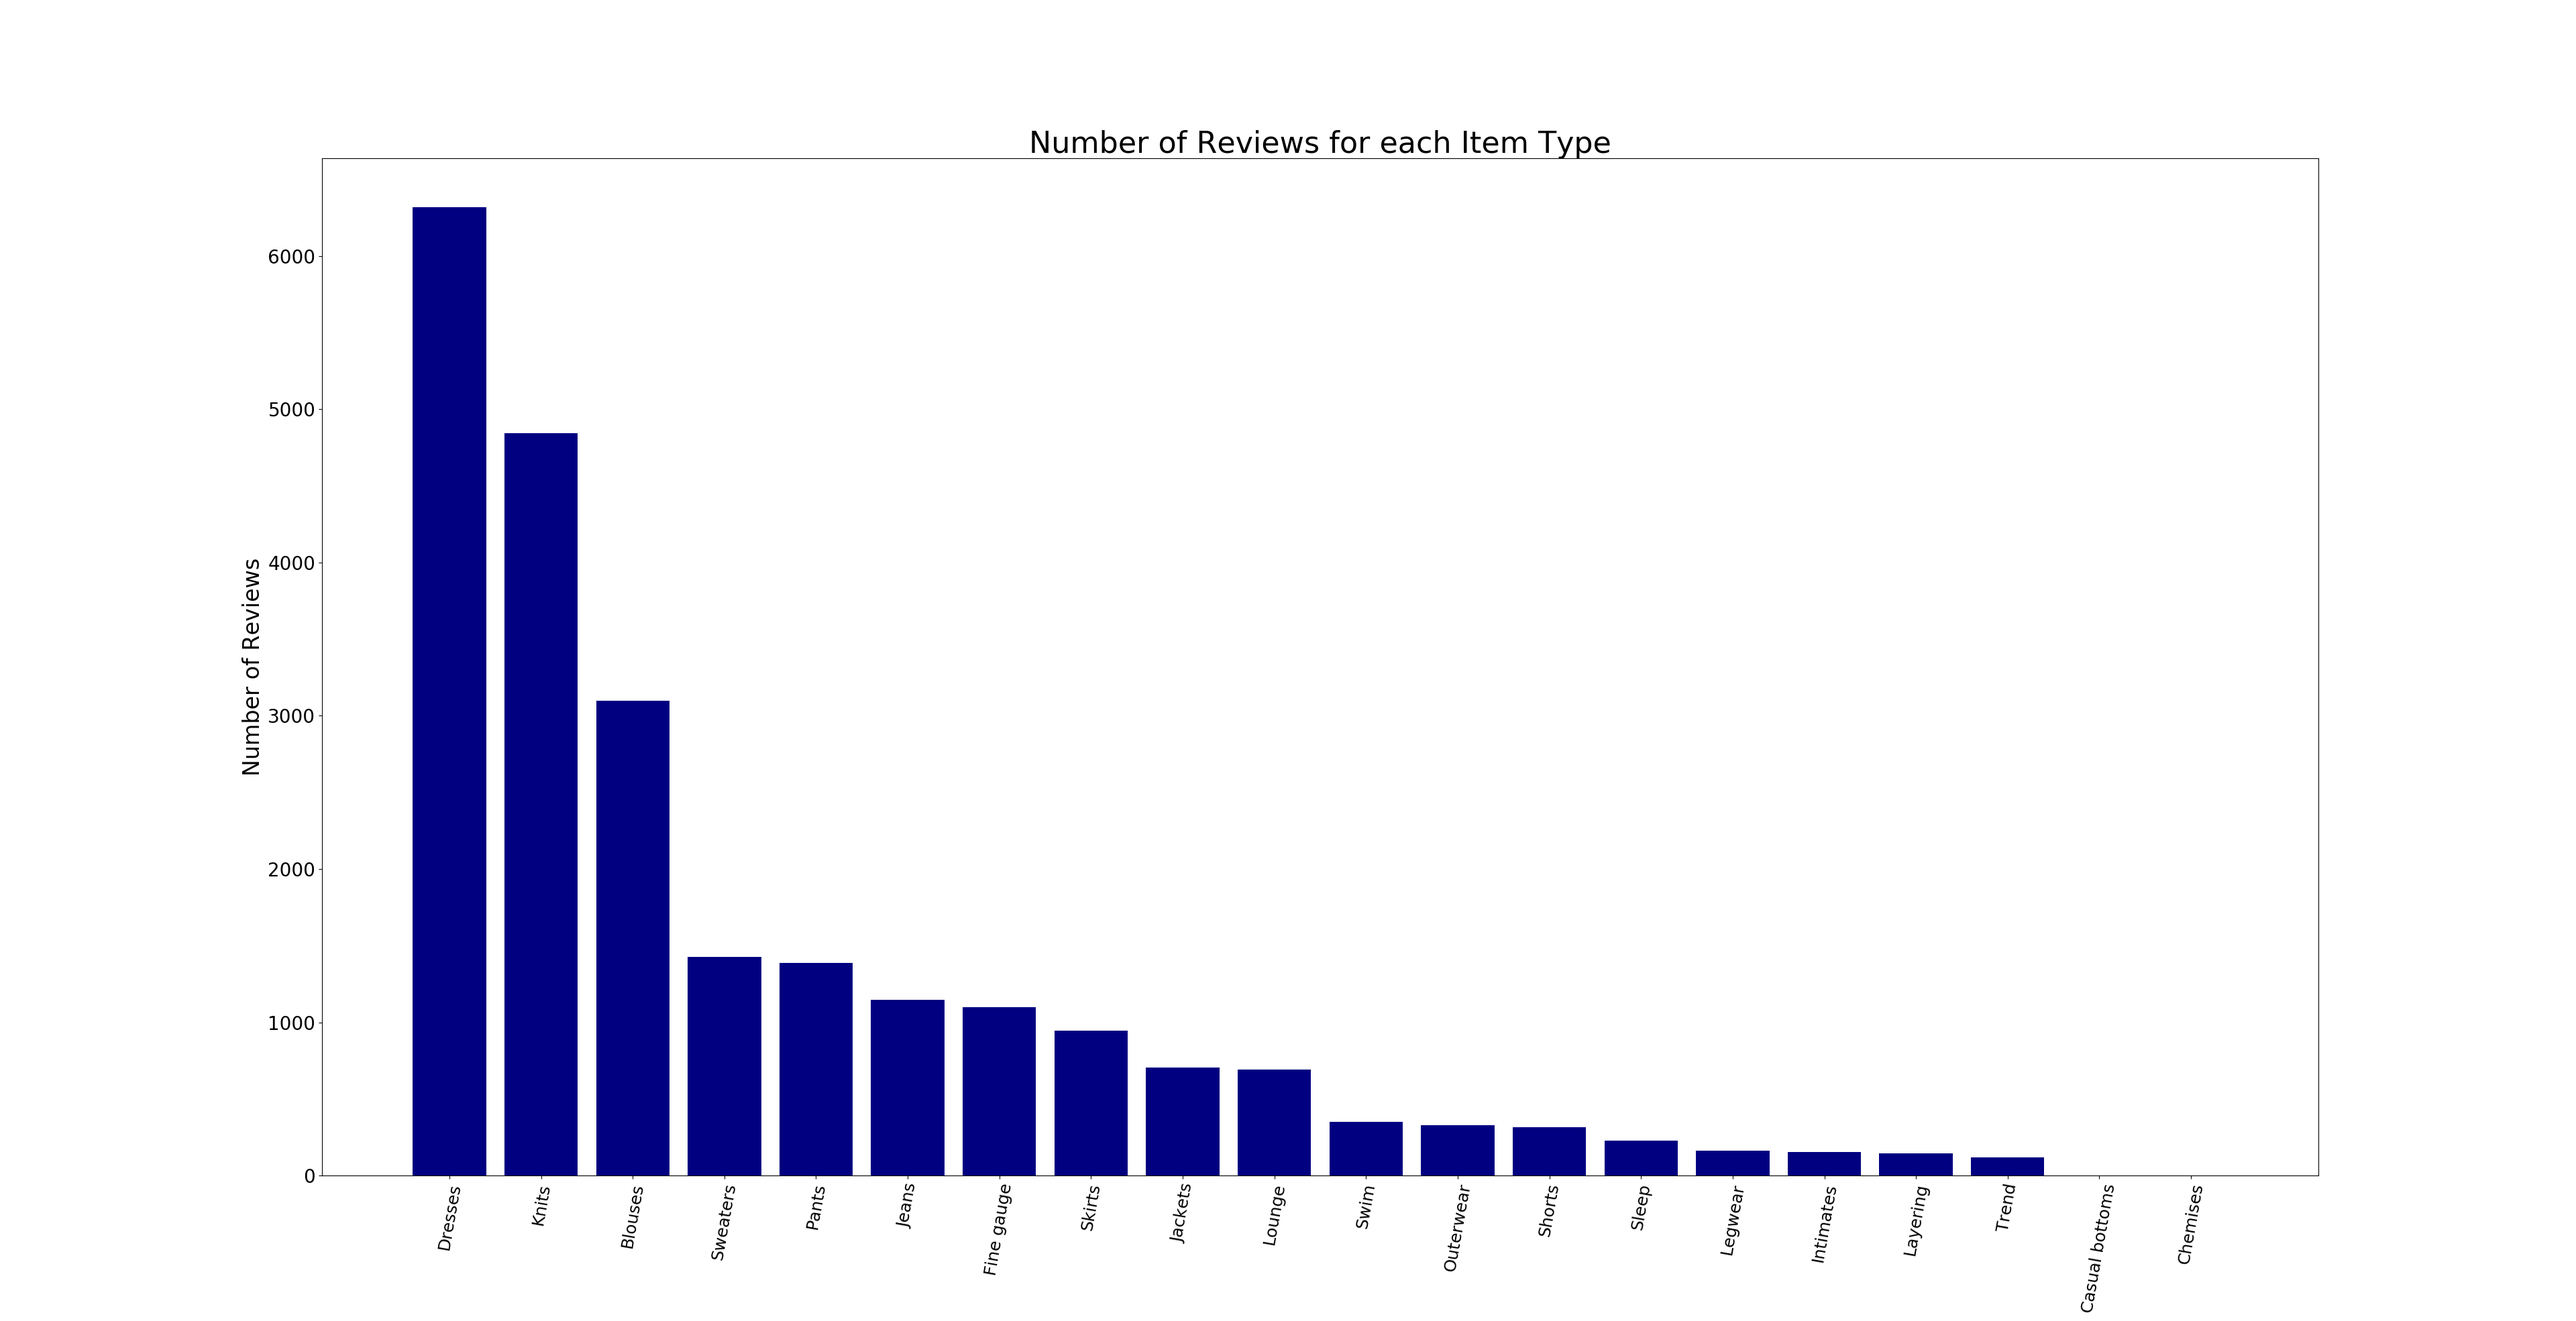
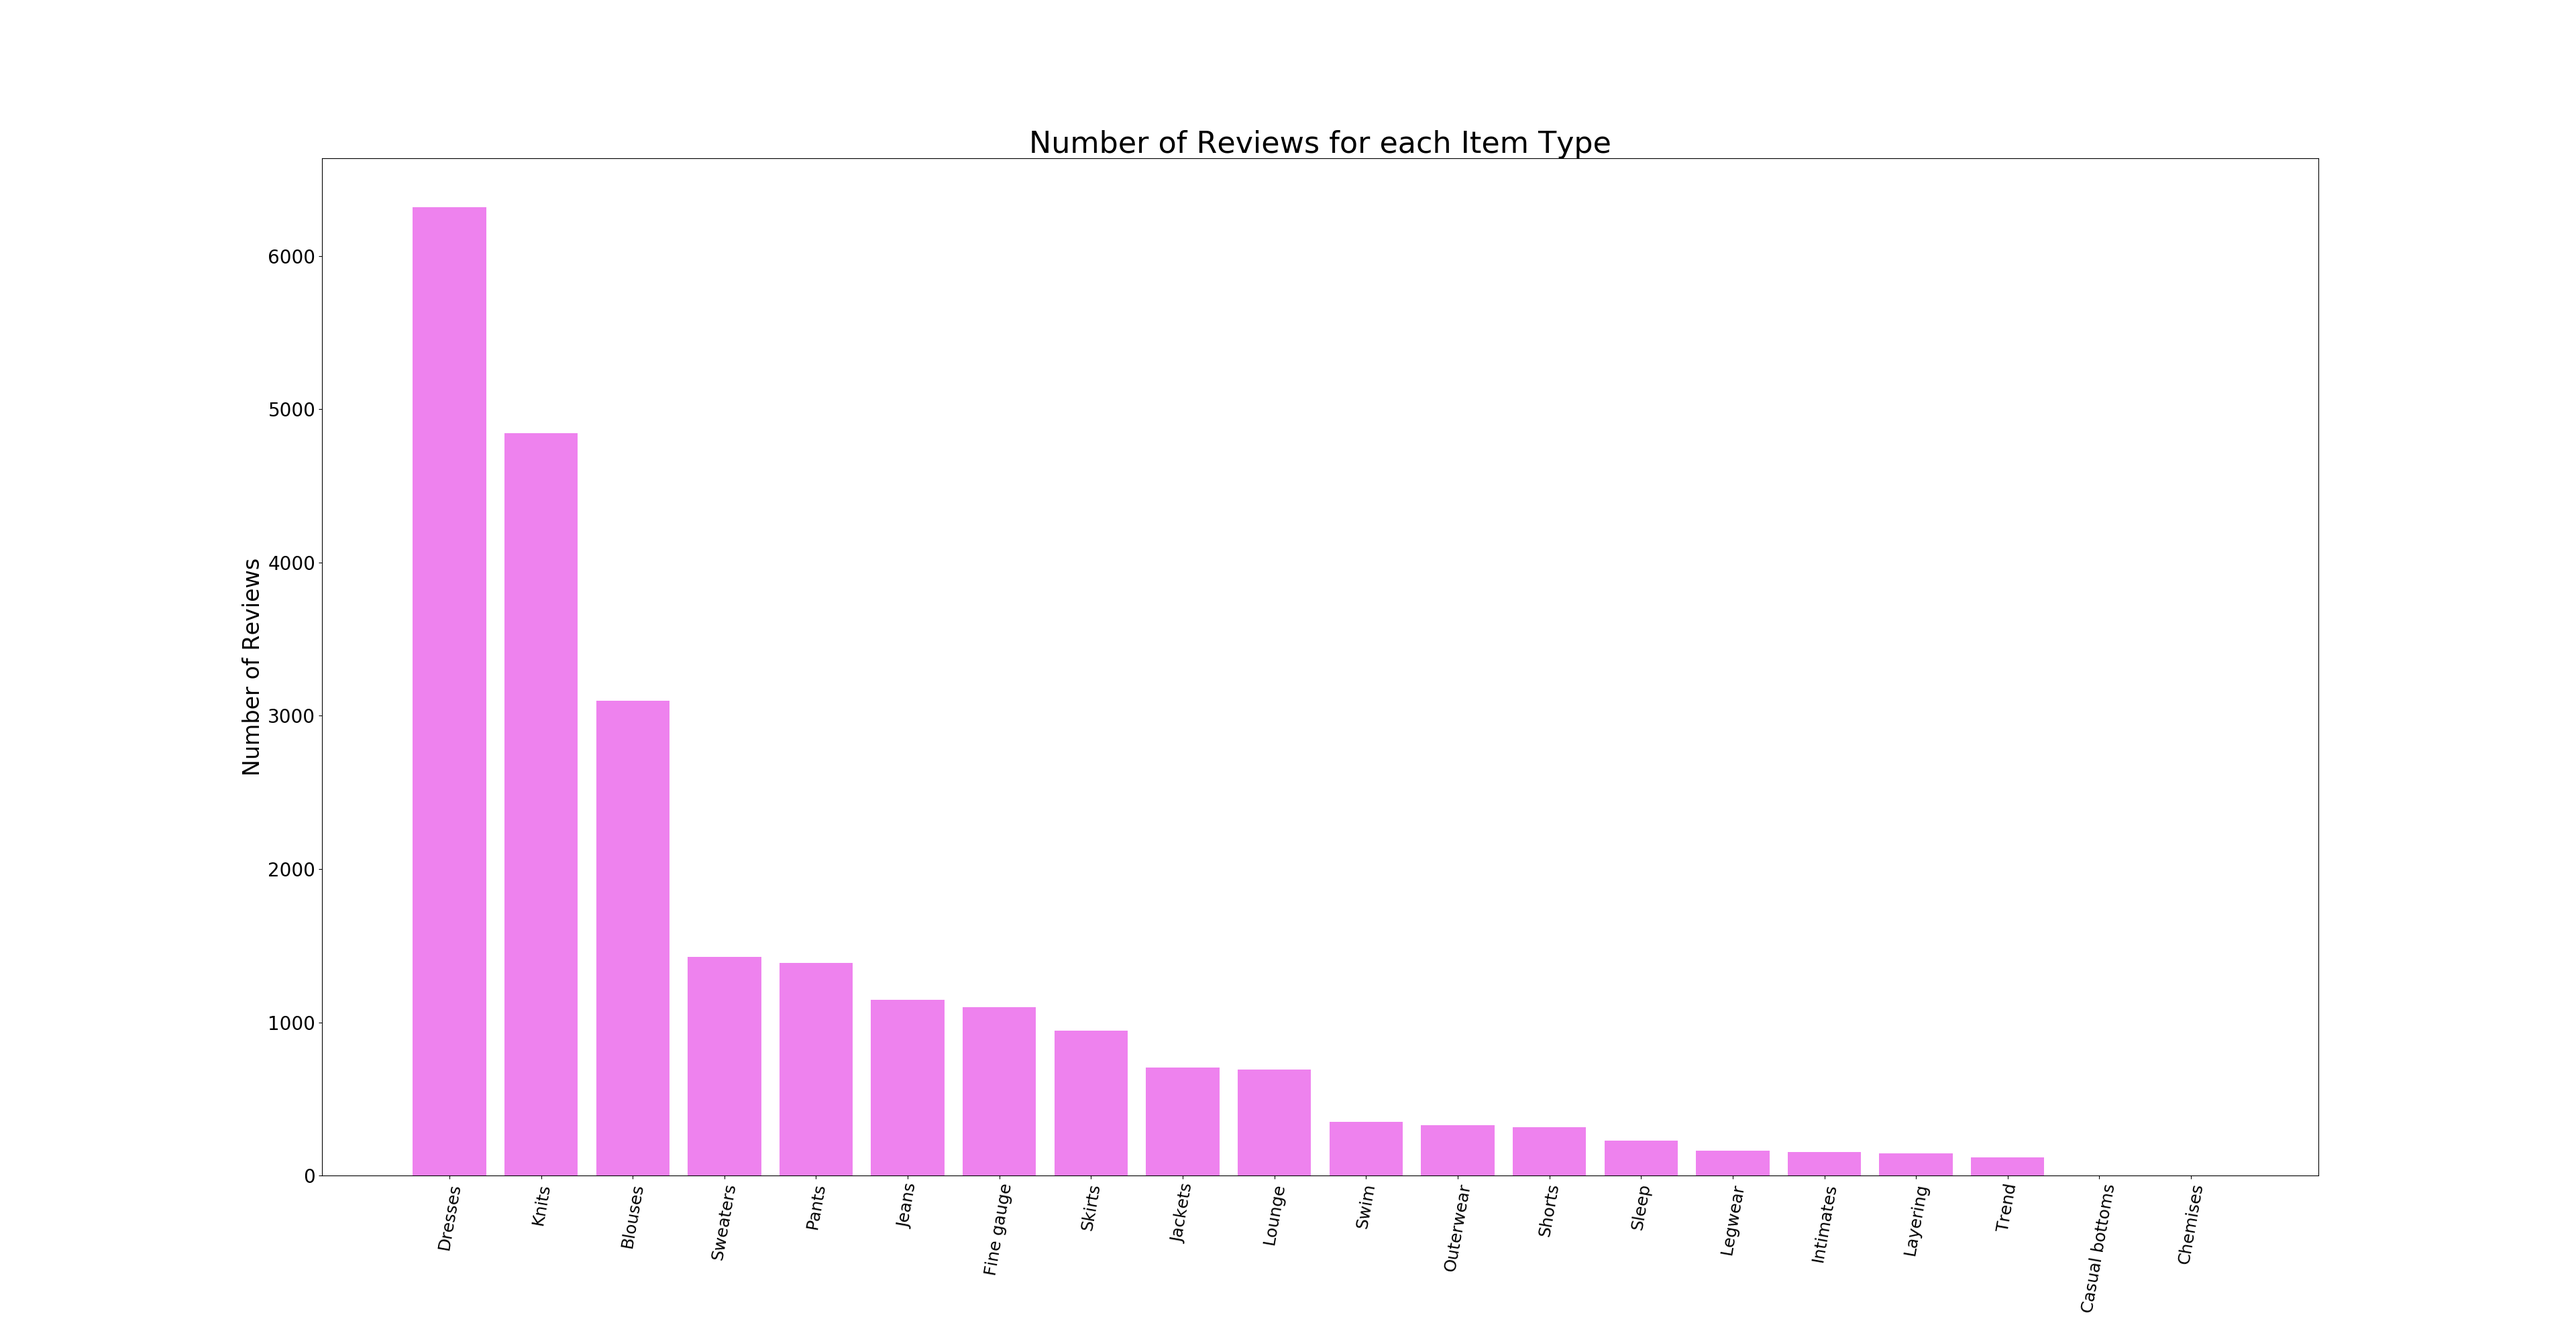
Mental Health in Tech
Basic graphs, tables, wordcloud.

Changed region(s): [[0.1562, 0.1548, 0.8125, 0.898]]

diff --git a/mental_health_tech/mental_health.py b/mental_health_tech/mental_health.py
@@ -34,6 +34,113 @@ Columns:
 """
 
 
+def age_gender_histogram():
+    """
+    Create a histogram for age and gender.
+    """
+    ages_m = []
+    ages_f = []
+    for index, row in df.iterrows():
+        gender = row["Gender"]
+        if gender == "m":
+            ages_m.append(row["Age"])
+        if gender == "f":
+            ages_f.append(row["Age"])
+
+    # plot histograms
+    plt.close()
+    fig, ax = plt.subplots()
+    plt.hist(ages_m, bins=32, color="orange", alpha=0.5, label="Male")
+    plt.hist(ages_f, bins=32, color="violet", alpha=0.5, label="Female")
+    plt.xlabel("Age", fontsize=32)
+    plt.ylabel("Frequency", fontsize=32)
+    plt.title("Histogram of Ages", fontsize=48)
+    ax.tick_params(axis="x", which="major", labelsize=20)
+    ax.tick_params(axis="y", which="major", labelsize=20)
+    plt.grid(True)
+    plt.legend(prop={'size': 32})
+    plt.show()
+
+
+def categorical_data_tables():
+    """
+    Generate categorical data tables.
+    """
+    from tabulate import tabulate
+
+    # Family History
+    family_histories = pd.DataFrame(df.groupby(["family_history"]).size())
+    family_histories.columns = ["count"]
+    print(tabulate(family_histories, headers="keys", tablefmt="orgtbl"))
+
+    # Treatment
+    treatment = pd.DataFrame(df.groupby(["treatment"]).size())
+    treatment.columns = ["count"]
+    print(tabulate(treatment, headers="keys", tablefmt="orgtbl"))
+
+    # Work Interference
+    interference = pd.DataFrame(df.groupby(["work_interfere"]).size())
+    interference.columns = ["count"]
+    print(tabulate(interference, headers="keys", tablefmt="orgtbl"))
+
+    # Working Remotely
+    remotely = pd.DataFrame(df.groupby(["remote_work"]).size())
+    remotely.columns = ["count"]
+    print(tabulate(remotely, headers="keys", tablefmt="orgtbl"))
+
+    # Mental Health Benefits
+    benefits = pd.DataFrame(df.groupby(["benefits"]).size())
+    benefits.columns = ["count"]
+    print(tabulate(benefits, headers="keys", tablefmt="orgtbl"))
+
+    # Care Options
+    care_options = pd.DataFrame(df.groupby(["care_options"]).size())
+    care_options.columns = ["count"]
+    print(tabulate(care_options, headers="keys", tablefmt="orgtbl"))
+
+    # Seeking Help
+    seek_help = pd.DataFrame(df.groupby(["seek_help"]).size())
+    seek_help.columns = ["count"]
+    print(tabulate(seek_help, headers="keys", tablefmt="orgtbl"))
+
+    # Mental Health Consequence
+    mental_consequence = pd.DataFrame(df.groupby(["mental_health_consequence"]).size())
+    mental_consequence.columns = ["count"]
+    print(tabulate(mental_consequence, headers="keys", tablefmt="orgtbl"))
+
+    # Physical Health Consequence
+    physical_consequence = pd.DataFrame(df.groupby(["phys_health_consequence"]).size())
+    physical_consequence.columns = ["count"]
+    print(tabulate(physical_consequence, headers="keys", tablefmt="orgtbl"))
+
+
+def wordcloud_comments():
+    def preprocess_comment(s):
+        """
+        Preprocess a comment.
+        :return: str, preprocessed comment
+        """
+        return s.lower().strip()
+
+    def construct_stopwords():
+        """
+        Add some words to the stopwords list.
+        """
+        sw = STOPWORDS
+        added = ["employer", "employee", "employed", "company", "mental", "health", "issues", "work", "people",
+                 "know", "questions"]
+        for e in added: sw.add(e)
+        return sw
+
+    from wordcloud import WordCloud, STOPWORDS
+    comments = np.array([preprocess_comment(comment) for comment in df["comments"].values if type(comment) == str])
+    text = " ".join(comments)
+    wordcloud = WordCloud(background_color="white", width=700, height=500, collocations=False, max_words=150, stopwords=construct_stopwords())
+    wordcloud.generate(text)
+    plt.axis("off")
+    plt.imshow(wordcloud)
+
+
 if __name__ == "__main__":
     # -- Import libraries
     import numpy as np
@@ -43,6 +150,40 @@ if __name__ == "__main__":
     # -- Import dataset
     df = pd.read_csv("mental_health_in_tech_survey.csv")
 
-    pass
+    # -- Cleaning
+    # clean age data
+    median_age = np.median(df["Age"].values)
+    for i in range(len(df["Age"].values)):
+        if df["Age"].values[i] < 0 or df["Age"].values[i] > 100:
+            df["Age"].values[i] = median_age
 
+    # clean gender data
+    def decipher_gender(s):
+        """
+        Given a string, return either "m" or "f" or "o" (other)
+        This handles most of the possible strings a user could enter.
+        Some of these I infer myself (eg. malr is a typo of male).
 
+        :param s: some string, likely in the form of "m", "M", "f", "F", "male", "female", or some variant
+        :return: string
+        """
+        s = s.lower().strip()
+        if s in ["m", "male", "man", "cis male", "male (cis)", "make", "cis man", "malr", "msle"]:
+            return "m"
+        elif s in ["f", "female", "woman", "female (cis)", "femake"]:
+            return "f"
+        else:
+            # print(s)
+            return "o"
+
+    f = np.vectorize(decipher_gender)
+    df["Gender"] = f(df["Gender"])
+
+    # -- First, let's get a feel for our data. Plot a histogram of age / gender.
+    age_gender_histogram()
+
+    # -- Look at categorical data columns
+    categorical_data_tables()
+
+    # -- Wordclouds for comments
+    wordcloud_comments()

diff --git a/women_ecommerce/ecommerce.py b/women_ecommerce/ecommerce.py
@@ -21,20 +21,18 @@ def bar_graph_class_names():
     Simple plot of number of reviews per class name
     """
     # get classes and counts
-    classes = [c for c in df.iloc[:, -1].values]
-    unique, counts = np.unique(classes, return_counts=True)
-    class_counts = dict(zip(unique, counts))
-    del class_counts["nan"]
+    class_counts = df.groupby(["Class Name"]).size().to_dict()
     class_counts = collections.OrderedDict(sorted(class_counts.items(), key=lambda x: x[1], reverse=True))
 
     # create bar graph
     num_classes = len(class_counts)
     fig, ax = plt.subplots()
-    plt.bar(np.arange(num_classes), class_counts.values(), color="Navy")
+    plt.bar(np.arange(num_classes), class_counts.values(), color="violet")
     plt.xticks(np.arange(num_classes), class_counts.keys(), fontsize=18, rotation=80)
     ax.tick_params(axis="y", which="major", labelsize=20)
     plt.title("Number of Reviews for each Item Type", fontsize=32)
     plt.ylabel("Number of Reviews", fontsize=24)
+    plt.show()
 
 
 def bag_of_words():
@@ -120,4 +118,4 @@ if __name__ == "__main__":
     bar_graph_class_names()
 
     # -- Bag of words model and classification for review texts
-    bag_of_words()
+    # bag_of_words()

diff --git a/README.md b/README.md
@@ -56,3 +56,139 @@ Oof. that's not any better. Perhaps review text is not a good predictor for whet
 ## Mental Health in Tech
 Dataset: https://www.kaggle.com/osmi/mental-health-in-tech-survey
 
+First, let's get a feel for what the data looks like. Plot of age and genders:
+
+<img src="mental_health_tech/age_gender.png" width="600" height="400">
+
+There were a couple of entries for gender that I classified as "other", and the list of these in the dataset were:
+```
+male-ish
+maile
+trans-female
+cis female
+something kinda male?
+mal
+queer/she/they
+non-binary
+nah
+all
+enby
+fluid
+genderqueer
+androgyne
+agender
+cis-female/femme
+guy (-ish) ^_^
+male leaning androgynous
+trans woman
+neuter
+female (trans)
+queer
+mail
+a little about you
+female (trans)
+p
+femail
+ostensibly male, unsure what that really means
+```
+My logic for this was to correct typos (such as "malr"), and then for everything else, I classify as other.
+For instance, "queer" is not a gender, so I would just go ahead and classify this as "other".
+
+Now, let's look at some of the categorical data from the dataset:
+
+Family History: "Yes" indicates that there is a family history of mental illness.
+```
+| family_history   |   count |
+|------------------+---------|
+| No               |     767 |
+| Yes              |     492 |
+```
+
+Treatment: "Yes" indicates having sought out treatment for a mental health condition.
+```
+| treatment   |   count |
+|-------------+---------|
+| No          |     622 |
+| Yes         |     637 |
+```
+
+Work Interference: For those who have a mental health condition, how do people feel like their work gets affected?
+```
+| work_interfere   |   count |
+|------------------+---------|
+| Never            |     213 |
+| Often            |     144 |
+| Rarely           |     173 |
+| Sometimes        |     465 |
+```
+
+Remote Work: "Yes" indicates work from home more than 50% of the time.
+```
+| remote_work   |   count |
+|---------------+---------|
+| No            |     883 |
+| Yes           |     376 |
+```
+
+Benefits: Does the employer provide mental health benefits?
+```
+| benefits   |   count |
+|------------+---------|
+| Don't know |     408 |
+| No         |     374 |
+| Yes        |     477 |
+```
+
+Care Options: Do individuals know how to seek out care options from the employer?
+```
+| care_options   |   count |
+|----------------+---------|
+| No             |     501 |
+| Not sure       |     314 |
+| Yes            |     444 |
+```
+
+Seeking Help: Does the employer provide resources for mental health issues?
+```
+| seek_help   |   count |
+|-------------+---------|
+| Don't know  |     363 |
+| No          |     646 |
+| Yes         |     250 |
+```
+
+Consequences for bringing up mental health: Do you think bringing up mental health issues would have a negative impact on your employment?
+```
+| mental_health_consequence   |   count |
+|-----------------------------+---------|
+| Maybe                       |     477 |
+| No                          |     490 |
+| Yes                         |     292 |
+```
+
+Consequences for bringing up physical health: Do you think bringing up physical health issues would have a negative impact on your employment?
+```
+| phys_health_consequence   |   count |
+|---------------------------+---------|
+| Maybe                     |     273 |
+| No                        |     925 |
+| Yes                       |      61 |
+```
+
+
+### Comment Wordclouds
+Next, I look at the comments provided, and generate wordcloud visualizations for all the comments.
+
+<img src="mental_health_tech/comments_wc.png" width="700" height="500">
+
+I've removed all the stopwords (provided from the WordCloud library), and I added my own stopwords,
+which I feel are words that are not very helpful:
+`["employer", "employee", "employed", "company", "mental", "health", "issues", "work", "people", "know", "questions"]`
+
+Notably, words like `depression`, `insurance`, and `anxiety` appear quite often.
+
+
+
+
+
+
